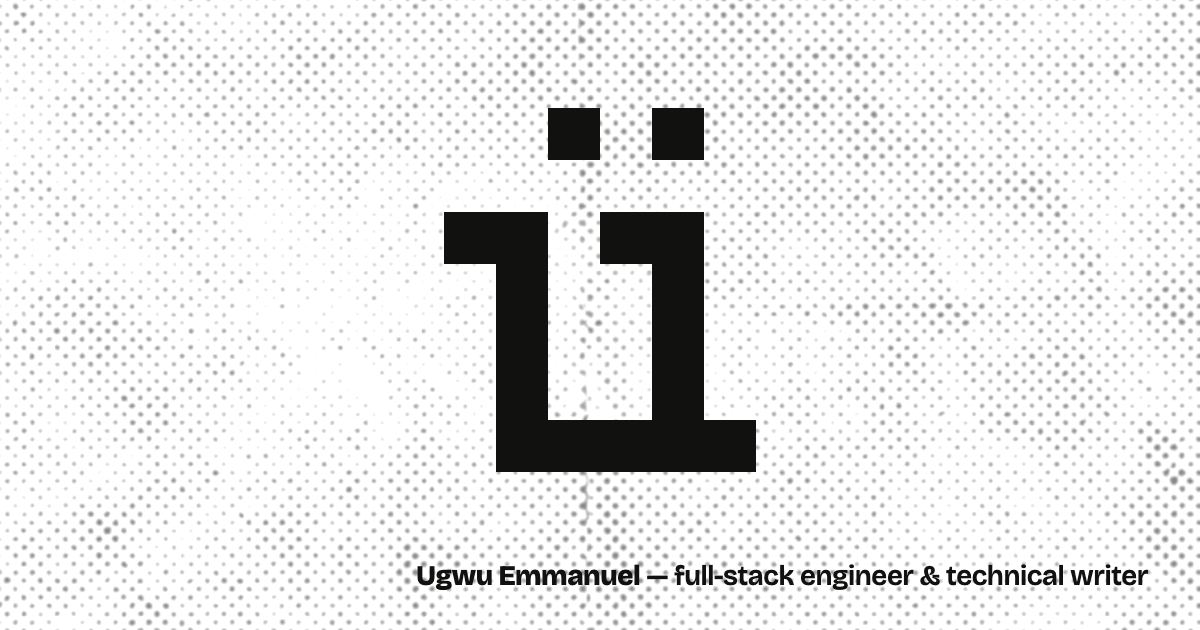
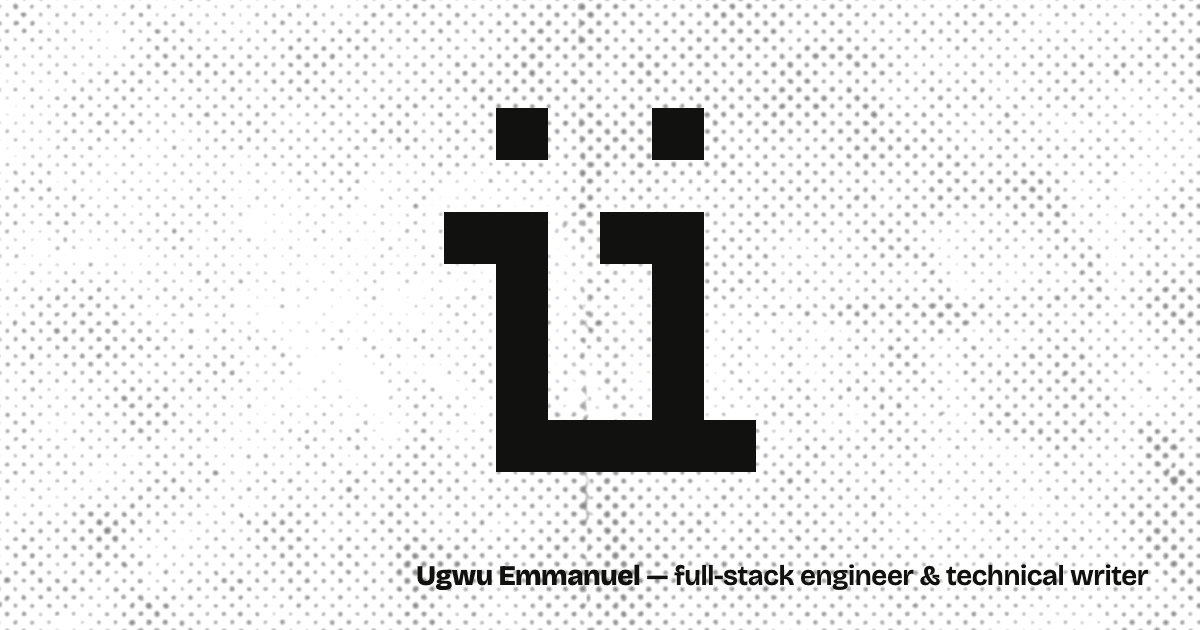
ü: left dot over the left stem

Changed region(s): [[0.4008, 0.1508, 0.5242, 0.2714]]

diff --git a/index.html b/index.html
@@ -11,19 +11,19 @@
 <meta property="og:title" content="Emmanuel Ugwu — full-stack engineer &amp; technical writer">
 <meta property="og:description" content="Emmanuel Ugwu is a full-stack engineer and technical writer who builds products end to end — from the database to the last hover state.">
 <meta property="og:url" content="https://ugwu.netlify.app/">
-<meta property="og:image" content="https://ugwu.netlify.app/assets/og-image.png?v=2">
+<meta property="og:image" content="https://ugwu.netlify.app/assets/og-image.png?v=3">
 <meta property="og:image:width" content="1200">
 <meta property="og:image:height" content="630">
 <meta property="og:image:alt" content="Emmanuel Ugwu — full-stack engineer &amp; technical writer">
 <meta name="twitter:card" content="summary_large_image">
 <meta name="twitter:title" content="Emmanuel Ugwu — full-stack engineer &amp; technical writer">
 <meta name="twitter:description" content="Emmanuel Ugwu is a full-stack engineer and technical writer who builds products end to end — from the database to the last hover state.">
-<meta name="twitter:image" content="https://ugwu.netlify.app/assets/og-image.png?v=2">
+<meta name="twitter:image" content="https://ugwu.netlify.app/assets/og-image.png?v=3">
 <meta name="theme-color" content="#ffffff">
 <link rel="apple-touch-icon" href="assets/apple-touch-icon.png">
 <link rel="canonical" href="https://ugwu.netlify.app/">
 <!-- /social -->
-<link rel="icon" href="favicon.svg?v=5" type="image/svg+xml">
+<link rel="icon" href="favicon.svg?v=6" type="image/svg+xml">
 <link rel="preconnect" href="https://fonts.googleapis.com">
 <link rel="preconnect" href="https://fonts.gstatic.com" crossorigin>
 <link rel="stylesheet" href="https://fonts.googleapis.com/css2?family=Bebas+Neue&family=Big+Shoulders+Display:wght@900&family=Instrument+Serif:ital@1&family=Inter:wght@400;500;600;700;800&family=JetBrains+Mono:wght@400;500;700&display=swap">

diff --git a/work/faber-reach.html b/work/faber-reach.html
@@ -12,19 +12,19 @@
 <meta property="og:title" content="Faber Reach — case study — Emmanuel Ugwu">
 <meta property="og:description" content="Faber Reach (in progress): give it a website and it finds the buyers, the decision-maker and drafts the email for you to approve.">
 <meta property="og:url" content="https://ugwu.netlify.app/work/faber-reach.html">
-<meta property="og:image" content="https://ugwu.netlify.app/assets/og-image.png?v=2">
+<meta property="og:image" content="https://ugwu.netlify.app/assets/og-image.png?v=3">
 <meta property="og:image:width" content="1200">
 <meta property="og:image:height" content="630">
 <meta property="og:image:alt" content="Emmanuel Ugwu — full-stack engineer &amp; technical writer">
 <meta name="twitter:card" content="summary_large_image">
 <meta name="twitter:title" content="Faber Reach — case study — Emmanuel Ugwu">
 <meta name="twitter:description" content="Faber Reach (in progress): give it a website and it finds the buyers, the decision-maker and drafts the email for you to approve.">
-<meta name="twitter:image" content="https://ugwu.netlify.app/assets/og-image.png?v=2">
+<meta name="twitter:image" content="https://ugwu.netlify.app/assets/og-image.png?v=3">
 <meta name="theme-color" content="#ffffff">
 <link rel="apple-touch-icon" href="../assets/apple-touch-icon.png">
 <link rel="canonical" href="https://ugwu.netlify.app/work/faber-reach.html">
 <!-- /social -->
-<link rel="icon" href="../favicon.svg?v=5" type="image/svg+xml">
+<link rel="icon" href="../favicon.svg?v=6" type="image/svg+xml">
 <link rel="preconnect" href="https://fonts.googleapis.com">
 <link rel="preconnect" href="https://fonts.gstatic.com" crossorigin>
 <link rel="stylesheet" href="https://fonts.googleapis.com/css2?family=Inter:wght@400;500;600;700&family=JetBrains+Mono:wght@400;500;700&display=swap">

diff --git a/work/worldwise.html b/work/worldwise.html
@@ -11,19 +11,19 @@
 <meta property="og:title" content="Worldwise — case study — Emmanuel Ugwu">
 <meta property="og:description" content="Worldwise: a world map that tracks your footsteps into every city you can think of.">
 <meta property="og:url" content="https://ugwu.netlify.app/work/worldwise.html">
-<meta property="og:image" content="https://ugwu.netlify.app/assets/og-image.png?v=2">
+<meta property="og:image" content="https://ugwu.netlify.app/assets/og-image.png?v=3">
 <meta property="og:image:width" content="1200">
 <meta property="og:image:height" content="630">
 <meta property="og:image:alt" content="Emmanuel Ugwu — full-stack engineer &amp; technical writer">
 <meta name="twitter:card" content="summary_large_image">
 <meta name="twitter:title" content="Worldwise — case study — Emmanuel Ugwu">
 <meta name="twitter:description" content="Worldwise: a world map that tracks your footsteps into every city you can think of.">
-<meta name="twitter:image" content="https://ugwu.netlify.app/assets/og-image.png?v=2">
+<meta name="twitter:image" content="https://ugwu.netlify.app/assets/og-image.png?v=3">
 <meta name="theme-color" content="#ffffff">
 <link rel="apple-touch-icon" href="../assets/apple-touch-icon.png">
 <link rel="canonical" href="https://ugwu.netlify.app/work/worldwise.html">
 <!-- /social -->
-<link rel="icon" href="../favicon.svg?v=5" type="image/svg+xml">
+<link rel="icon" href="../favicon.svg?v=6" type="image/svg+xml">
 <link rel="preconnect" href="https://fonts.googleapis.com">
 <link rel="preconnect" href="https://fonts.gstatic.com" crossorigin>
 <link rel="stylesheet" href="https://fonts.googleapis.com/css2?family=Inter:wght@400;500;600;700&family=JetBrains+Mono:wght@400;500;700&display=swap">

diff --git a/work/180-autos.html b/work/180-autos.html
@@ -14,19 +14,19 @@
 <meta property="og:title" content="180 Autos — case study — Emmanuel Ugwu">
 <meta property="og:description" content="180 Autos: website and inventory admin for a premium car dealership, with a pixel-art car that drives off as you scroll.">
 <meta property="og:url" content="https://ugwu.netlify.app/work/180-autos.html">
-<meta property="og:image" content="https://ugwu.netlify.app/assets/og-image.png?v=2">
+<meta property="og:image" content="https://ugwu.netlify.app/assets/og-image.png?v=3">
 <meta property="og:image:width" content="1200">
 <meta property="og:image:height" content="630">
 <meta property="og:image:alt" content="Emmanuel Ugwu — full-stack engineer &amp; technical writer">
 <meta name="twitter:card" content="summary_large_image">
 <meta name="twitter:title" content="180 Autos — case study — Emmanuel Ugwu">
 <meta name="twitter:description" content="180 Autos: website and inventory admin for a premium car dealership, with a pixel-art car that drives off as you scroll.">
-<meta name="twitter:image" content="https://ugwu.netlify.app/assets/og-image.png?v=2">
+<meta name="twitter:image" content="https://ugwu.netlify.app/assets/og-image.png?v=3">
 <meta name="theme-color" content="#ffffff">
 <link rel="apple-touch-icon" href="../assets/apple-touch-icon.png">
 <link rel="canonical" href="https://ugwu.netlify.app/work/180-autos.html">
 <!-- /social -->
-    <link rel="icon" href="../favicon.svg?v=5" type="image/svg+xml" />
+    <link rel="icon" href="../favicon.svg?v=6" type="image/svg+xml" />
     <link rel="preconnect" href="https://fonts.googleapis.com" />
     <link rel="preconnect" href="https://fonts.gstatic.com" crossorigin />
     <link

diff --git a/work/izu-igbo-calendar.html b/work/izu-igbo-calendar.html
@@ -14,19 +14,19 @@
 <meta property="og:title" content="Izu Igbo Calendar — case study — Emmanuel Ugwu">
 <meta property="og:description" content="Izu Igbo Calendar: the Igbo four-day market week mapped onto 120 years of dates, on the web and Android.">
 <meta property="og:url" content="https://ugwu.netlify.app/work/izu-igbo-calendar.html">
-<meta property="og:image" content="https://ugwu.netlify.app/assets/og-image.png?v=2">
+<meta property="og:image" content="https://ugwu.netlify.app/assets/og-image.png?v=3">
 <meta property="og:image:width" content="1200">
 <meta property="og:image:height" content="630">
 <meta property="og:image:alt" content="Emmanuel Ugwu — full-stack engineer &amp; technical writer">
 <meta name="twitter:card" content="summary_large_image">
 <meta name="twitter:title" content="Izu Igbo Calendar — case study — Emmanuel Ugwu">
 <meta name="twitter:description" content="Izu Igbo Calendar: the Igbo four-day market week mapped onto 120 years of dates, on the web and Android.">
-<meta name="twitter:image" content="https://ugwu.netlify.app/assets/og-image.png?v=2">
+<meta name="twitter:image" content="https://ugwu.netlify.app/assets/og-image.png?v=3">
 <meta name="theme-color" content="#ffffff">
 <link rel="apple-touch-icon" href="../assets/apple-touch-icon.png">
 <link rel="canonical" href="https://ugwu.netlify.app/work/izu-igbo-calendar.html">
 <!-- /social -->
-    <link rel="icon" href="../favicon.svg?v=5" type="image/svg+xml" />
+    <link rel="icon" href="../favicon.svg?v=6" type="image/svg+xml" />
     <link rel="preconnect" href="https://fonts.googleapis.com" />
     <link rel="preconnect" href="https://fonts.gstatic.com" crossorigin />
     <link

diff --git a/work/oms-tracker.html b/work/oms-tracker.html
@@ -14,19 +14,19 @@
 <meta property="og:title" content="OMS Tracker Tool — case study — Emmanuel Ugwu">
 <meta property="og:description" content="OMS Teachings Tracker: 100+ members following their progress through 350+ teachings across nine faculties.">
 <meta property="og:url" content="https://ugwu.netlify.app/work/oms-tracker.html">
-<meta property="og:image" content="https://ugwu.netlify.app/assets/og-image.png?v=2">
+<meta property="og:image" content="https://ugwu.netlify.app/assets/og-image.png?v=3">
 <meta property="og:image:width" content="1200">
 <meta property="og:image:height" content="630">
 <meta property="og:image:alt" content="Emmanuel Ugwu — full-stack engineer &amp; technical writer">
 <meta name="twitter:card" content="summary_large_image">
 <meta name="twitter:title" content="OMS Tracker Tool — case study — Emmanuel Ugwu">
 <meta name="twitter:description" content="OMS Teachings Tracker: 100+ members following their progress through 350+ teachings across nine faculties.">
-<meta name="twitter:image" content="https://ugwu.netlify.app/assets/og-image.png?v=2">
+<meta name="twitter:image" content="https://ugwu.netlify.app/assets/og-image.png?v=3">
 <meta name="theme-color" content="#ffffff">
 <link rel="apple-touch-icon" href="../assets/apple-touch-icon.png">
 <link rel="canonical" href="https://ugwu.netlify.app/work/oms-tracker.html">
 <!-- /social -->
-    <link rel="icon" href="../favicon.svg?v=5" type="image/svg+xml" />
+    <link rel="icon" href="../favicon.svg?v=6" type="image/svg+xml" />
     <link rel="preconnect" href="https://fonts.googleapis.com" />
     <link rel="preconnect" href="https://fonts.gstatic.com" crossorigin />
     <link

diff --git a/work.html b/work.html
@@ -11,19 +11,19 @@
 <meta property="og:title" content="Work — Emmanuel Ugwu">
 <meta property="og:description" content="Everything Emmanuel Ugwu has shipped: storefronts, dashboards, mobile apps and tools.">
 <meta property="og:url" content="https://ugwu.netlify.app/work.html">
-<meta property="og:image" content="https://ugwu.netlify.app/assets/og-image.png?v=2">
+<meta property="og:image" content="https://ugwu.netlify.app/assets/og-image.png?v=3">
 <meta property="og:image:width" content="1200">
 <meta property="og:image:height" content="630">
 <meta property="og:image:alt" content="Emmanuel Ugwu — full-stack engineer &amp; technical writer">
 <meta name="twitter:card" content="summary_large_image">
 <meta name="twitter:title" content="Work — Emmanuel Ugwu">
 <meta name="twitter:description" content="Everything Emmanuel Ugwu has shipped: storefronts, dashboards, mobile apps and tools.">
-<meta name="twitter:image" content="https://ugwu.netlify.app/assets/og-image.png?v=2">
+<meta name="twitter:image" content="https://ugwu.netlify.app/assets/og-image.png?v=3">
 <meta name="theme-color" content="#ffffff">
 <link rel="apple-touch-icon" href="assets/apple-touch-icon.png">
 <link rel="canonical" href="https://ugwu.netlify.app/work.html">
 <!-- /social -->
-<link rel="icon" href="favicon.svg?v=5" type="image/svg+xml">
+<link rel="icon" href="favicon.svg?v=6" type="image/svg+xml">
 <link rel="preconnect" href="https://fonts.googleapis.com">
 <link rel="preconnect" href="https://fonts.gstatic.com" crossorigin>
 <link rel="stylesheet" href="https://fonts.googleapis.com/css2?family=Inter:wght@400;500;600;700&family=JetBrains+Mono:wght@400;500;700&display=swap">

diff --git a/work/oddman.html b/work/oddman.html
@@ -14,19 +14,19 @@
 <meta property="og:title" content="Oddman — case study — Emmanuel Ugwu">
 <meta property="og:description" content="Oddman: storefront and admin for an independent streetwear label that sells in small pre-order drops.">
 <meta property="og:url" content="https://ugwu.netlify.app/work/oddman.html">
-<meta property="og:image" content="https://ugwu.netlify.app/assets/og-image.png?v=2">
+<meta property="og:image" content="https://ugwu.netlify.app/assets/og-image.png?v=3">
 <meta property="og:image:width" content="1200">
 <meta property="og:image:height" content="630">
 <meta property="og:image:alt" content="Emmanuel Ugwu — full-stack engineer &amp; technical writer">
 <meta name="twitter:card" content="summary_large_image">
 <meta name="twitter:title" content="Oddman — case study — Emmanuel Ugwu">
 <meta name="twitter:description" content="Oddman: storefront and admin for an independent streetwear label that sells in small pre-order drops.">
-<meta name="twitter:image" content="https://ugwu.netlify.app/assets/og-image.png?v=2">
+<meta name="twitter:image" content="https://ugwu.netlify.app/assets/og-image.png?v=3">
 <meta name="theme-color" content="#ffffff">
 <link rel="apple-touch-icon" href="../assets/apple-touch-icon.png">
 <link rel="canonical" href="https://ugwu.netlify.app/work/oddman.html">
 <!-- /social -->
-    <link rel="icon" href="../favicon.svg?v=5" type="image/svg+xml" />
+    <link rel="icon" href="../favicon.svg?v=6" type="image/svg+xml" />
     <link rel="preconnect" href="https://fonts.googleapis.com" />
     <link rel="preconnect" href="https://fonts.gstatic.com" crossorigin />
     <link

diff --git a/work/kwuo.html b/work/kwuo.html
@@ -14,19 +14,19 @@
 <meta property="og:title" content="Kwuo — case study — Emmanuel Ugwu">
 <meta property="og:description" content="Kwuo: interactive games for learning Igbo, with tutors and chat on the way.">
 <meta property="og:url" content="https://ugwu.netlify.app/work/kwuo.html">
-<meta property="og:image" content="https://ugwu.netlify.app/assets/og-image.png?v=2">
+<meta property="og:image" content="https://ugwu.netlify.app/assets/og-image.png?v=3">
 <meta property="og:image:width" content="1200">
 <meta property="og:image:height" content="630">
 <meta property="og:image:alt" content="Emmanuel Ugwu — full-stack engineer &amp; technical writer">
 <meta name="twitter:card" content="summary_large_image">
 <meta name="twitter:title" content="Kwuo — case study — Emmanuel Ugwu">
 <meta name="twitter:description" content="Kwuo: interactive games for learning Igbo, with tutors and chat on the way.">
-<meta name="twitter:image" content="https://ugwu.netlify.app/assets/og-image.png?v=2">
+<meta name="twitter:image" content="https://ugwu.netlify.app/assets/og-image.png?v=3">
 <meta name="theme-color" content="#ffffff">
 <link rel="apple-touch-icon" href="../assets/apple-touch-icon.png">
 <link rel="canonical" href="https://ugwu.netlify.app/work/kwuo.html">
 <!-- /social -->
-    <link rel="icon" href="../favicon.svg?v=5" type="image/svg+xml" />
+    <link rel="icon" href="../favicon.svg?v=6" type="image/svg+xml" />
     <link rel="preconnect" href="https://fonts.googleapis.com" />
     <link rel="preconnect" href="https://fonts.gstatic.com" crossorigin />
     <link

diff --git a/work/sevanis.html b/work/sevanis.html
@@ -14,19 +14,19 @@
 <meta property="og:title" content="Sevanis — case study — Emmanuel Ugwu">
 <meta property="og:description" content="Sevanis: an e-commerce furniture store with sign-in and checkout.">
 <meta property="og:url" content="https://ugwu.netlify.app/work/sevanis.html">
-<meta property="og:image" content="https://ugwu.netlify.app/assets/og-image.png?v=2">
+<meta property="og:image" content="https://ugwu.netlify.app/assets/og-image.png?v=3">
 <meta property="og:image:width" content="1200">
 <meta property="og:image:height" content="630">
 <meta property="og:image:alt" content="Emmanuel Ugwu — full-stack engineer &amp; technical writer">
 <meta name="twitter:card" content="summary_large_image">
 <meta name="twitter:title" content="Sevanis — case study — Emmanuel Ugwu">
 <meta name="twitter:description" content="Sevanis: an e-commerce furniture store with sign-in and checkout.">
-<meta name="twitter:image" content="https://ugwu.netlify.app/assets/og-image.png?v=2">
+<meta name="twitter:image" content="https://ugwu.netlify.app/assets/og-image.png?v=3">
 <meta name="theme-color" content="#ffffff">
 <link rel="apple-touch-icon" href="../assets/apple-touch-icon.png">
 <link rel="canonical" href="https://ugwu.netlify.app/work/sevanis.html">
 <!-- /social -->
-    <link rel="icon" href="../favicon.svg?v=5" type="image/svg+xml" />
+    <link rel="icon" href="../favicon.svg?v=6" type="image/svg+xml" />
     <link rel="preconnect" href="https://fonts.googleapis.com" />
     <link rel="preconnect" href="https://fonts.gstatic.com" crossorigin />
     <link

diff --git a/og/og.html b/og/og.html
@@ -16,7 +16,7 @@
 <div class="og">
   <div class="ht"></div>
   <div class="u"><!-- the favicon's ü: Redaction 100 Bold, as outlines -->
-    <svg width="312" height="364" viewBox="0 0 600 700" aria-hidden="true"><g transform="translate(0 700) scale(1 -1)" fill="#111110"><path d="M200 500V100H400V400H300V500H500V100H600V0H100V400H0V500ZM200 600V700H300V600ZM400 600V700H500V600Z"/></g></svg>
+    <svg width="312" height="364" viewBox="0 0 600 700" aria-hidden="true"><g transform="translate(0 700) scale(1 -1)" fill="#111110"><path d="M200 500V100H400V400H300V500H500V100H600V0H100V400H0V500ZM100 600V700H200V600ZM400 600V700H500V600Z"/></g></svg>
   </div>
   <p><span style="font-weight:800">Ugwu Emmanuel</span> <span style="font-weight:600">— full-stack engineer &amp; technical writer</span></p>
 </div>

diff --git a/404.html b/404.html
@@ -5,7 +5,7 @@
 <meta name="viewport" content="width=device-width, initial-scale=1">
 <title>Page not found — Emmanuel Ugwu</title>
 <meta name="robots" content="noindex">
-<link rel="icon" href="/favicon.svg?v=5" type="image/svg+xml">
+<link rel="icon" href="/favicon.svg?v=6" type="image/svg+xml">
 <link rel="apple-touch-icon" href="/assets/apple-touch-icon.png">
 <link rel="preconnect" href="https://fonts.googleapis.com">
 <link rel="preconnect" href="https://fonts.gstatic.com" crossorigin>
